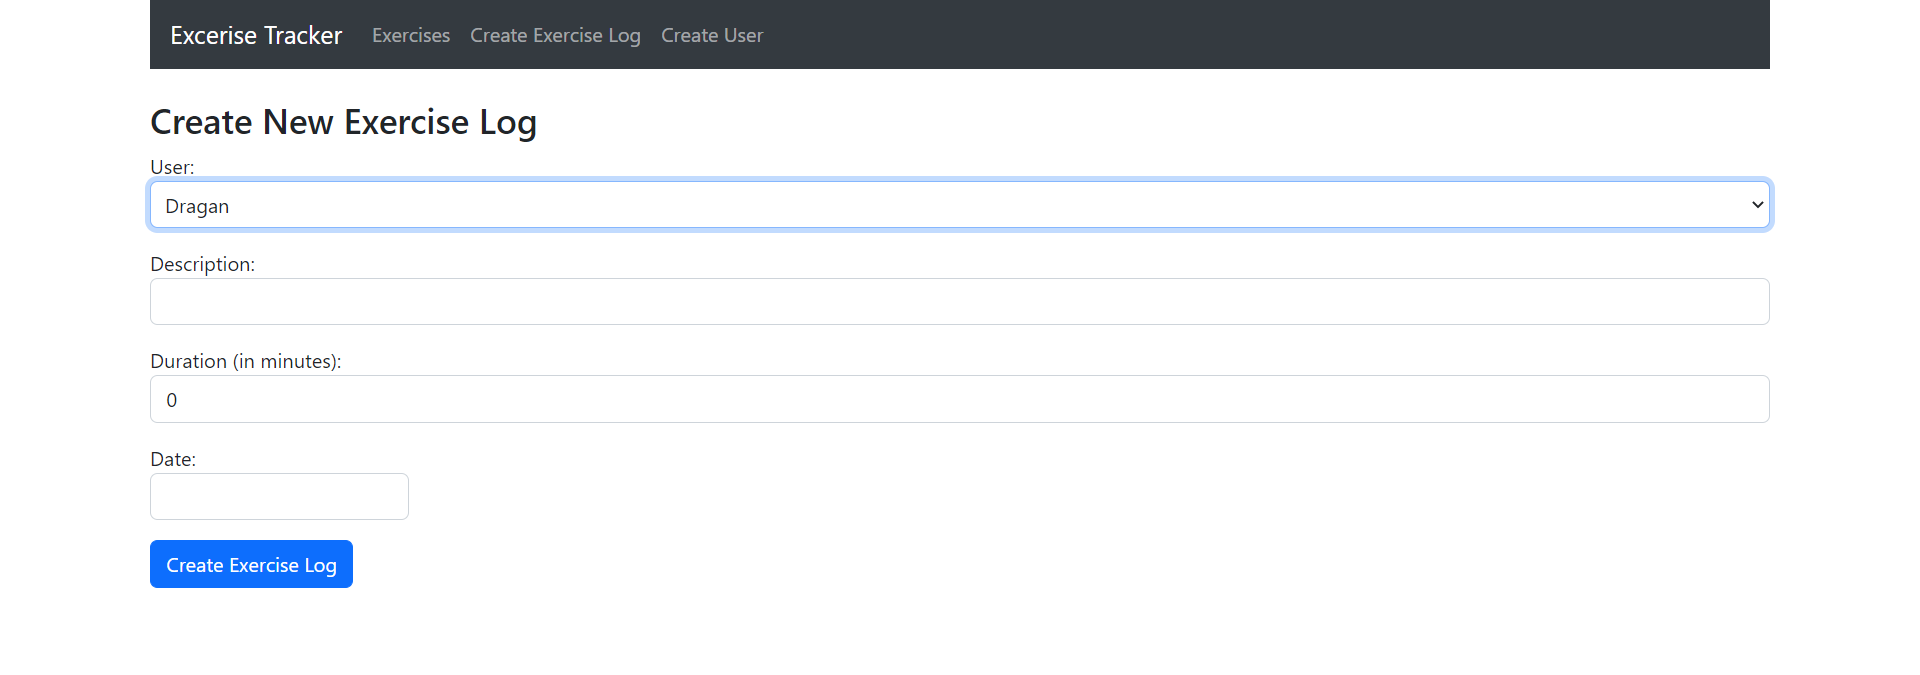
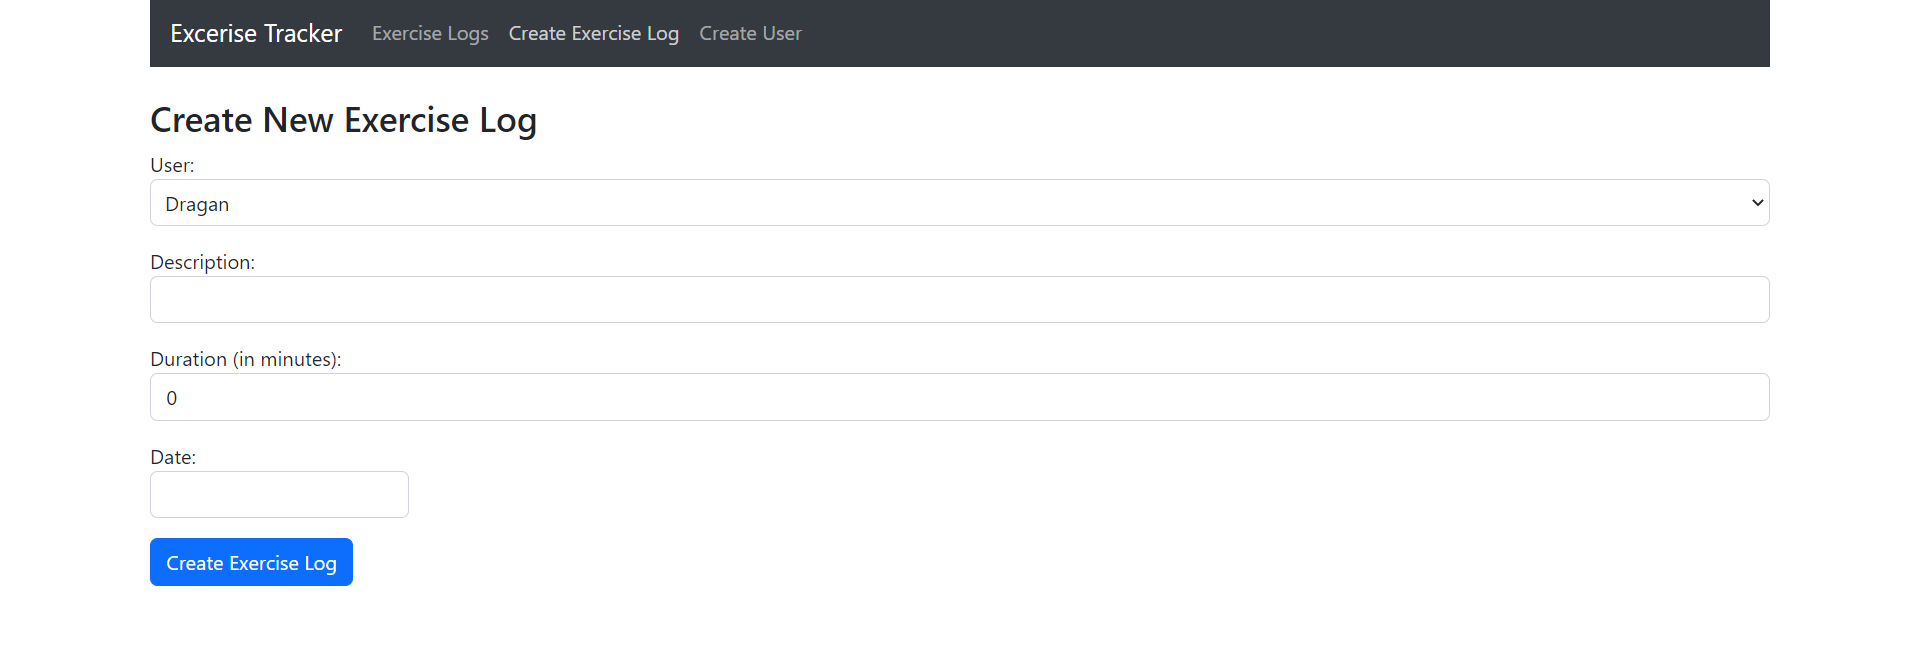
Update header.component.js

diff --git a/src/main/frontend/src/components/header.component.js b/src/main/frontend/src/components/header.component.js
@@ -9,7 +9,7 @@ export default function Header() {
                 <ul className="navbar-nav mr-auto">
                     <li className="navbar-brand">Excerise Tracker</li>
                     <li className="navbar-item">
-                        <Link to={"/"} className="nav-link">Exercises</Link>
+                        <Link to={"/"} className="nav-link">Exercise Logs</Link>
                     </li>
                     <li className="navbar-item">
                         <Link to={"/create-exercise-log"} className="nav-link">Create Exercise Log</Link>
